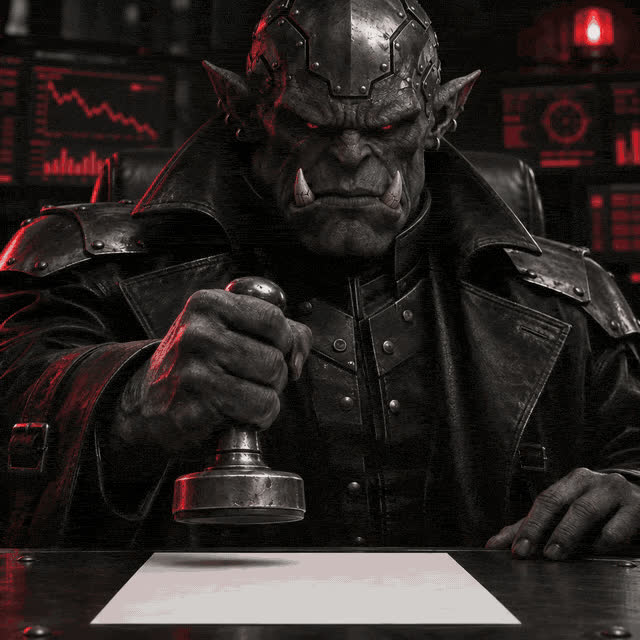
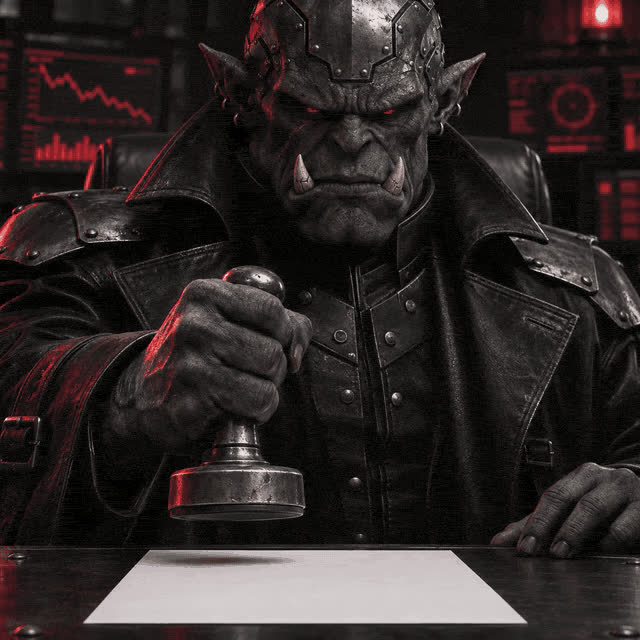
Redo the Videorc Approves: the round stamp now leaves a round APPROVED seal.

diff --git a/scripts/motion-prompts.ts b/scripts/motion-prompts.ts
@@ -294,7 +294,7 @@ export const VIDEORC_PROMPTS: Record<string, string> = {
   annoyed:
     "He watches the viewer with an irritated stare, then rolls his eyes slowly up and to the side in an exaggerated, exasperated eye-roll, lets out a long, heavy, annoyed sigh through his nose with his big shoulders rising and dropping, and gives a tiny, irritated head shake. Then he looks back at the viewer with flat, narrowed, unimpressed eyes. His eyes keep their dim red glow the whole time and never turn white. His arms stay crossed and his hands never rise. He does not touch his face. He does not shout. Mouth stays closed. No talking. No text, no captions. His face, tusks, metal skull plates, ear rings and clothes stay exactly the same. Locked camera: the framing stays exactly the same, no zoom, no pan, no cut.",
   approves:
-    "He lines the stamp up and slams it down hard onto the paper. He lifts the stamp away: a bold red APPROVED mark is left on the paper, the same width and height as the stamp face. He looks down at the mark, gives a small satisfied nod, then looks up at the viewer with a cold, approving smirk, mouth closed. No talking. No captions. His face, tusks, metal skull plates, ear rings and clothes stay exactly the same. Locked camera: the framing stays exactly the same, no zoom, no pan, no cut.",
+    "Cursor keyframes over the still: the round stamp pressed flat on the paper, and a round red APPROVED seal on the paper (moved under the stamp). He lifts the stamp a touch, slams it down with a camera shake and an eye flash, lifts it to reveal the round seal, then his red eyes flare. Slow push-in.",
   beach:
     "He lifts the skull cocktail, takes one sip through the straw, lowers it and gives the viewer a relaxed, satisfied grin, mouth closed after the sip. The dark waves roll in behind him and the palm fronds sway. No talking. No text, no captions. His face, tusks, metal skull plates, ear rings and clothes stay exactly the same. Locked camera: the framing stays exactly the same, no zoom, no pan, no cut.",
   "beach-lounge":
